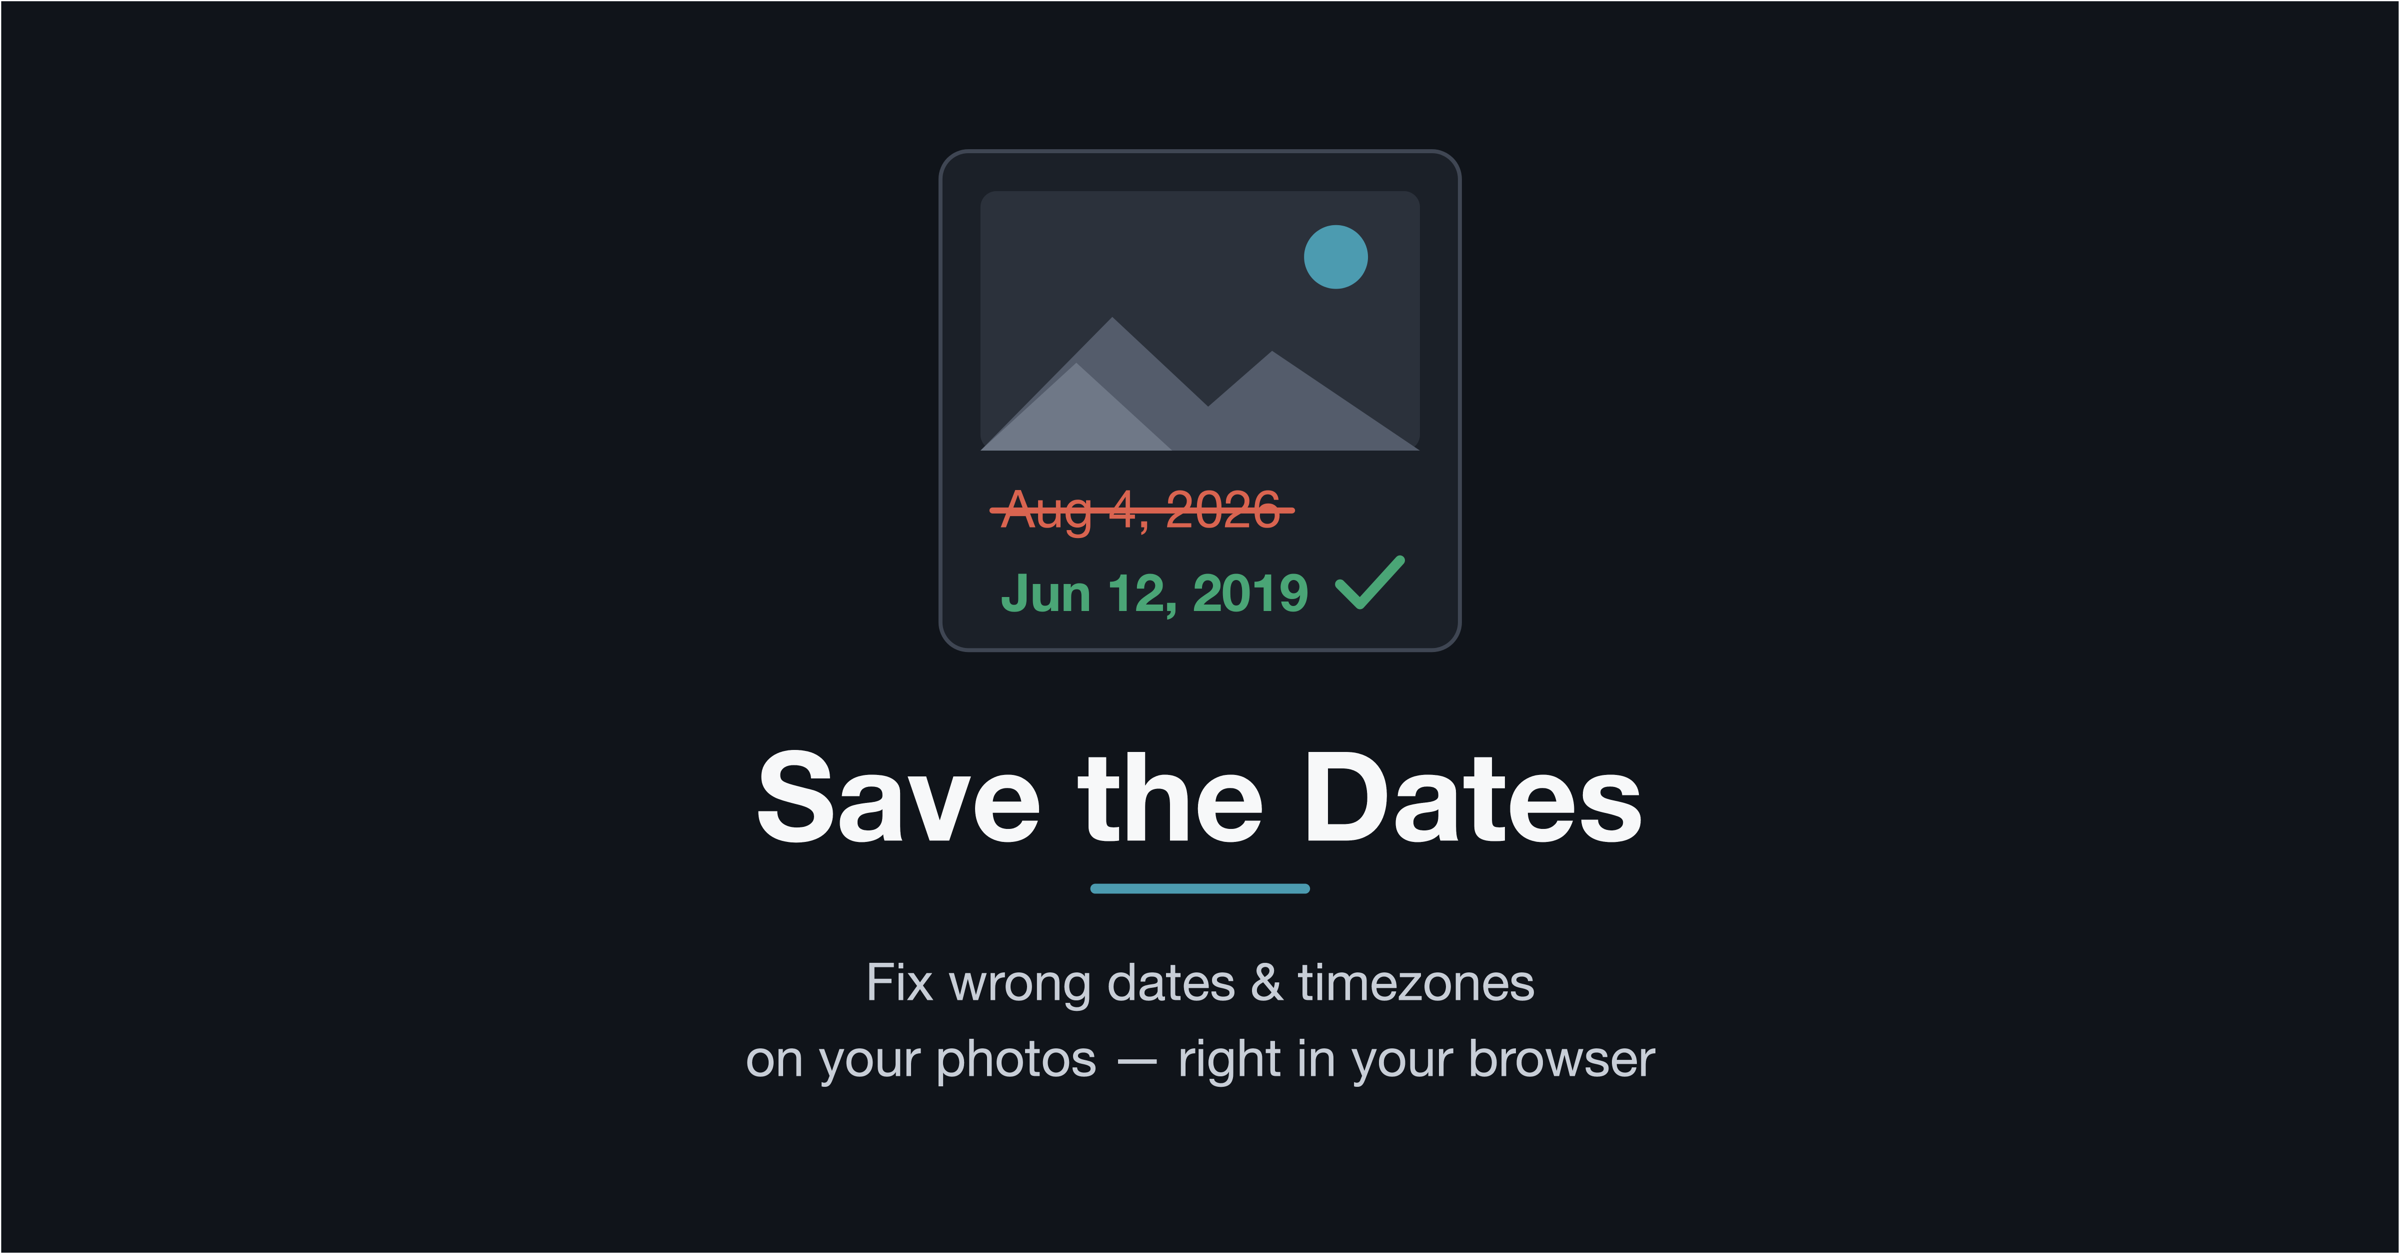
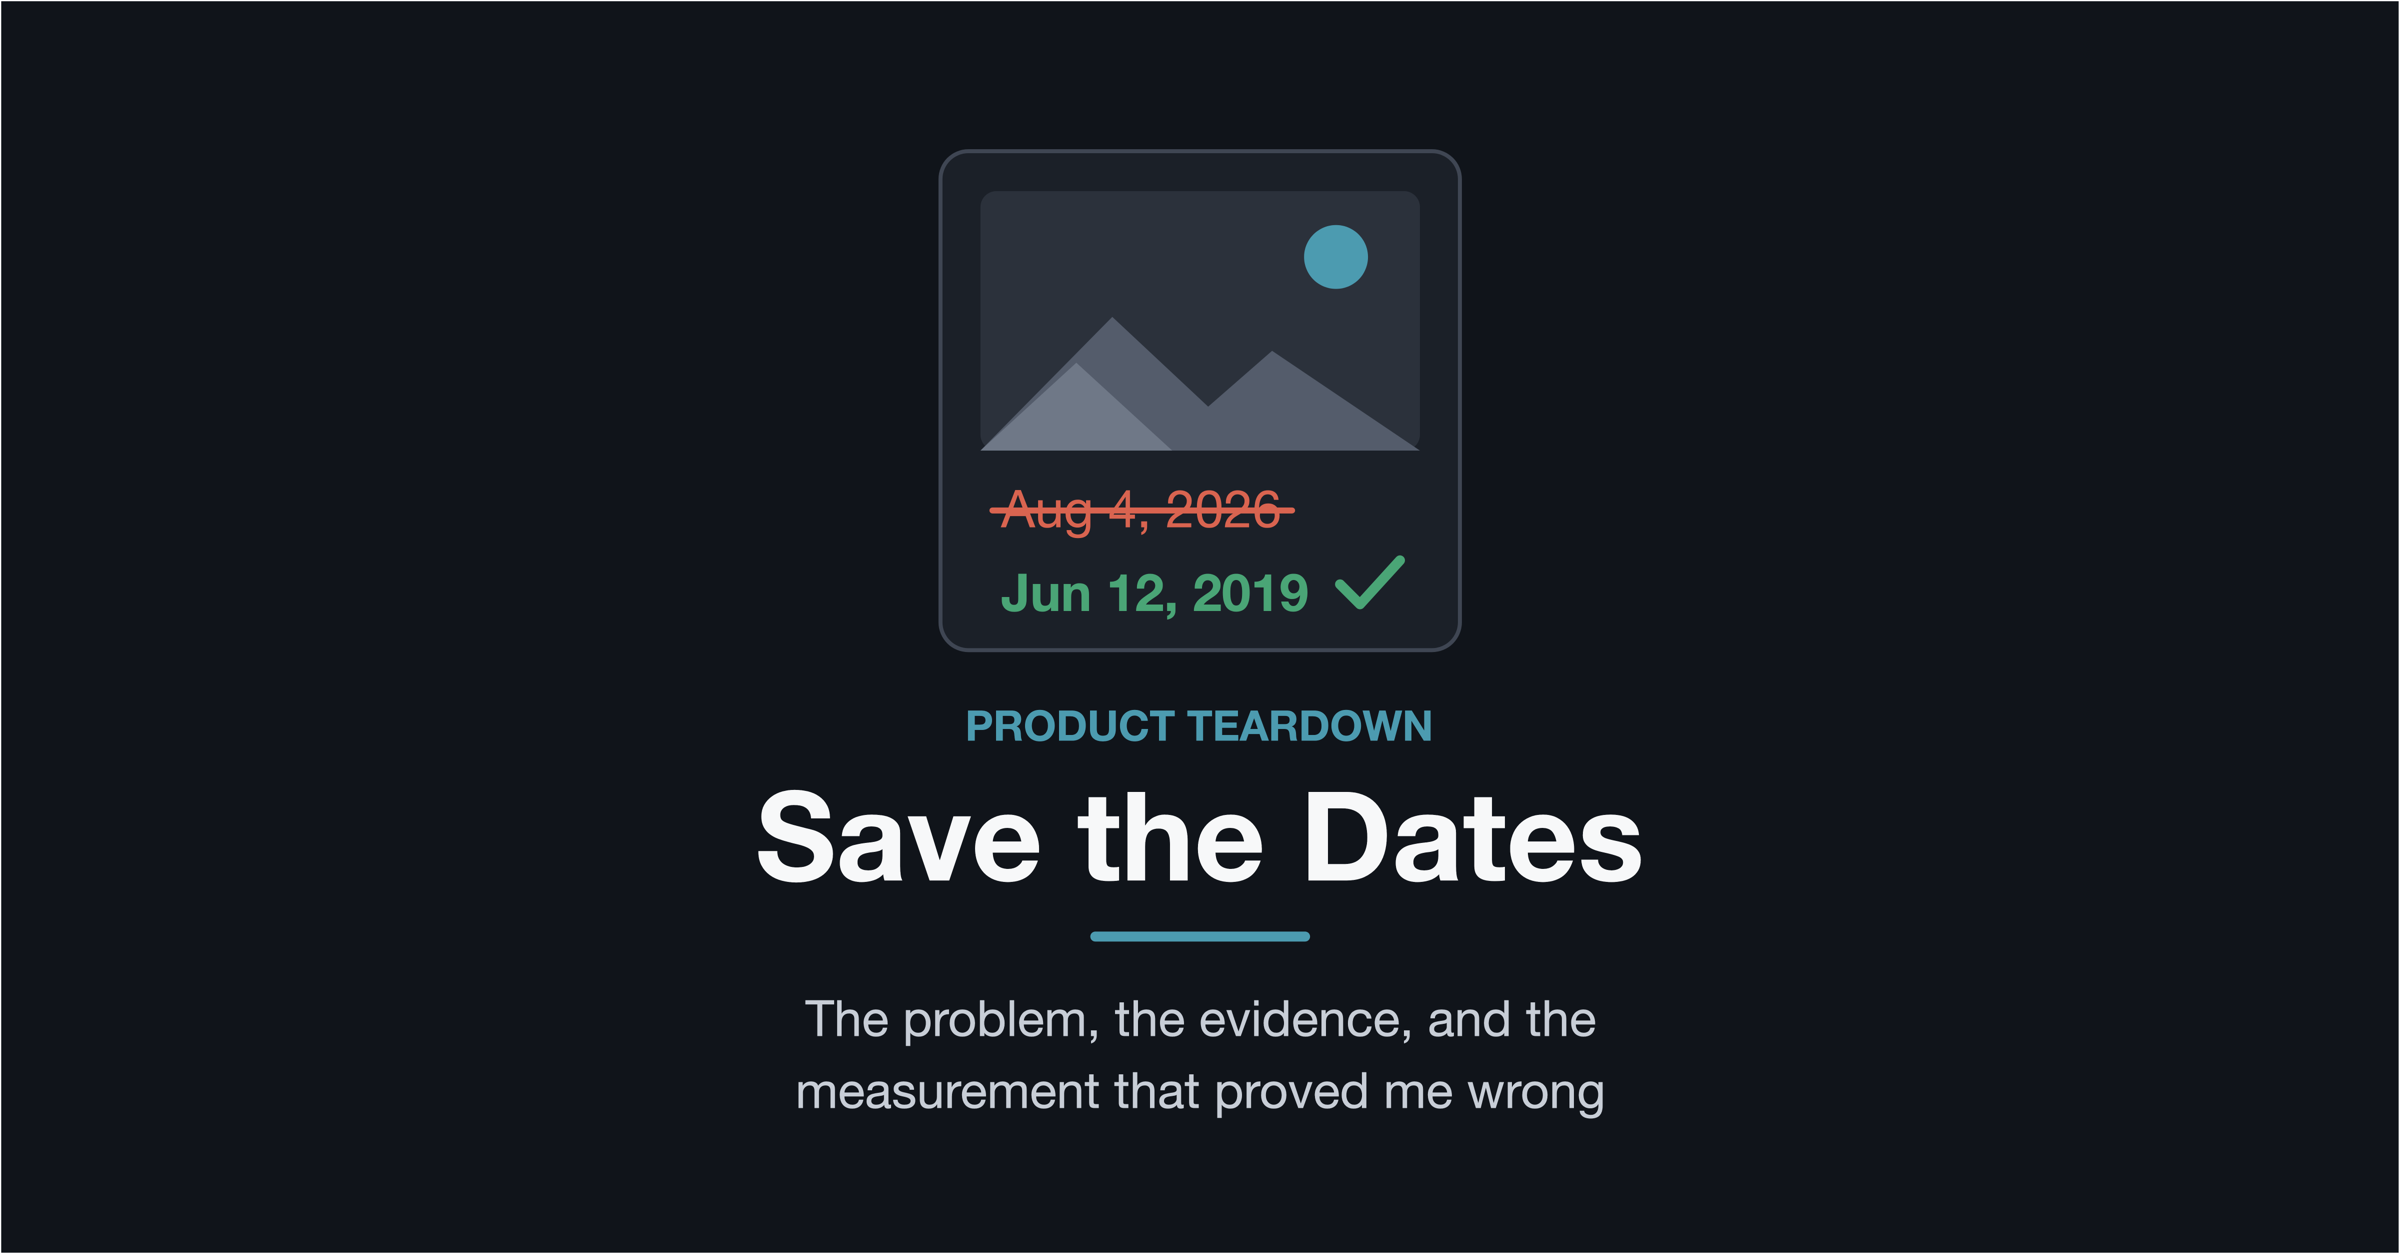
Give the tool its own share card, and match the sibling's card design
Both pages pointed at one image, so a link to the tool and a link to the
essay produced the same preview. Each now has its own.

- og-image.png becomes the teardown's card: it gains the PRODUCT TEARDOWN
  kicker the sibling project uses, and its subtitle leads with the essay's
  hook, which is the measurement that proved the premise wrong
- og-tool.png is new, and keeps the product promise as its subtitle
- The em dash in the old card's subtitle is gone, so the no-dash rule now
  holds in the images as well as the prose
- og:image:alt added to both, and the cache-buster bumped to v=5 so
  LinkedIn refetches the redrawn card rather than serving the old one

Changed region(s): [[0.3125, 0.5598, 0.6875, 0.9019]]

diff --git a/teardown.html b/teardown.html
@@ -19,7 +19,7 @@
 <meta name="description" content="A product teardown of Save the Dates: the problem, the evidence it is real, what measuring a live Google Takeout export changed about the scope, the decisions I committed to, and what I would cut.">
 <meta property="og:title" content="Save the Dates: A Product Teardown">
 <meta property="og:description" content="The product thinking behind a free, browser-based tool that repairs Google Photos Takeout dates: the problem, the evidence, what measuring a live export changed about the scope, the decisions I committed to, and what I would cut.">
-<meta property="og:image" content="https://roanukz.github.io/save-the-dates/og-image.png?v=4">
+<meta property="og:image" content="https://roanukz.github.io/save-the-dates/og-image.png?v=5">
 <meta property="og:image:width" content="2400">
 <meta property="og:image:height" content="1254">
 <meta property="og:url" content="https://roanukz.github.io/save-the-dates/">

diff --git a/index.html b/index.html
@@ -11,7 +11,8 @@
      at the site root would make shared teardown links resolve to the tool. -->
 <meta property="og:title" content="Save the Dates: A Product Teardown">
 <meta property="og:description" content="The product thinking behind a free, browser-based tool that repairs Google Photos Takeout dates: the problem, the evidence, what measuring a live export changed about the scope, the decisions I committed to, and what I would cut.">
-<meta property="og:image" content="https://roanukz.github.io/save-the-dates/og-image.png?v=4">
+<meta property="og:image" content="https://roanukz.github.io/save-the-dates/og-image.png?v=5">
+<meta property="og:image:alt" content="A photo whose wrong export date is struck through and replaced with its real capture date.">
 <meta property="og:image:width" content="2400">
 <meta property="og:image:height" content="1254">
 <meta property="og:url" content="https://roanukz.github.io/save-the-dates/">

diff --git a/tool.html b/tool.html
@@ -10,7 +10,8 @@
   <!-- Share card. og-image.png is rendered from og-image.svg; edit the SVG. -->
   <meta property="og:title" content="Save the Dates - Photo Date &amp; Timezone Repair">
   <meta property="og:description" content="Free, browser-based tool that fixes wrong dates and timezones on photo libraries. No install, no account, no upload - files never leave your device.">
-  <meta property="og:image" content="https://roanukz.github.io/save-the-dates/og-image.png?v=4">
+  <meta property="og:image" content="https://roanukz.github.io/save-the-dates/og-tool.png?v=5">
+  <meta property="og:image:alt" content="A photo whose wrong export date is struck through and replaced with its real capture date.">
   <meta property="og:image:width" content="2400">
   <meta property="og:image:height" content="1254">
   <meta property="og:url" content="https://roanukz.github.io/save-the-dates/tool.html">
